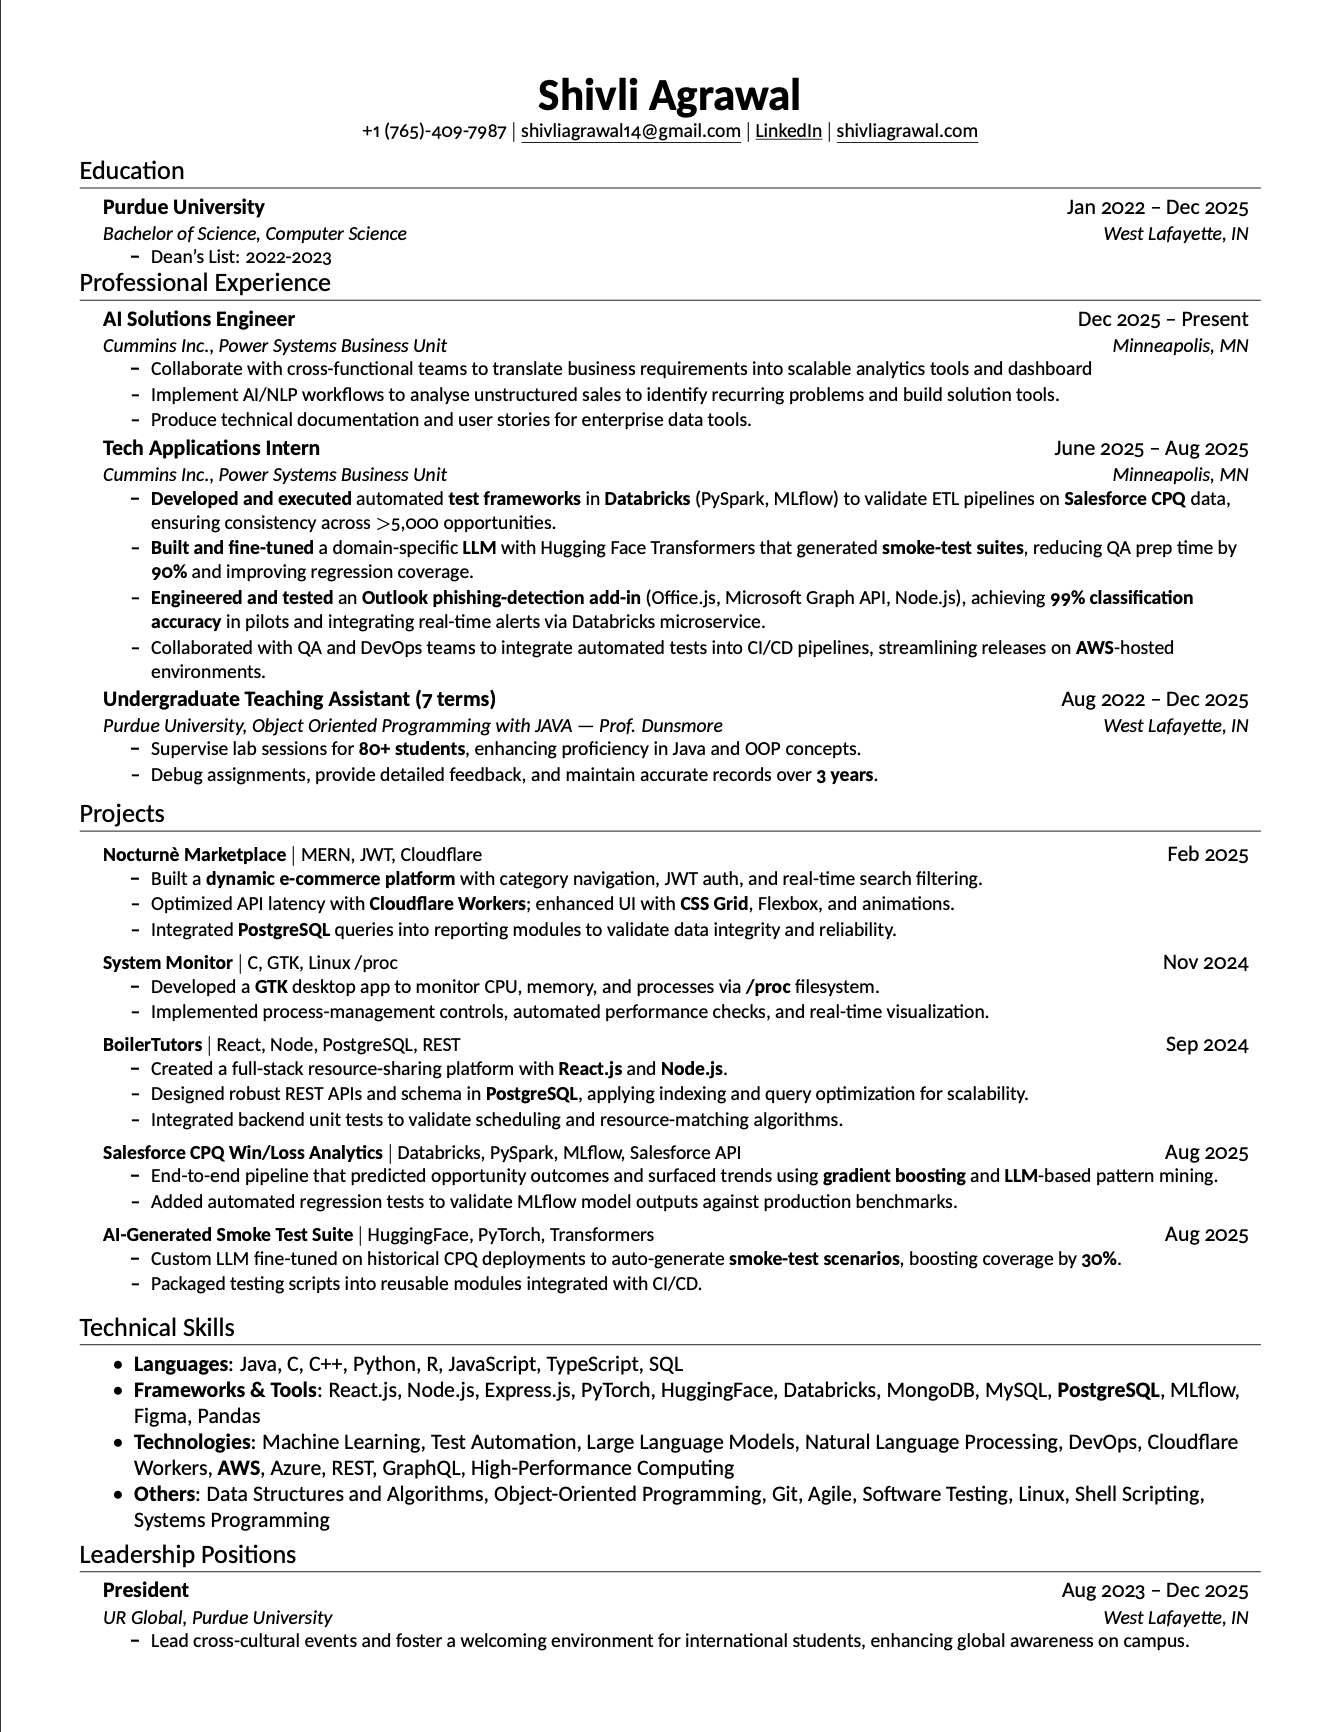
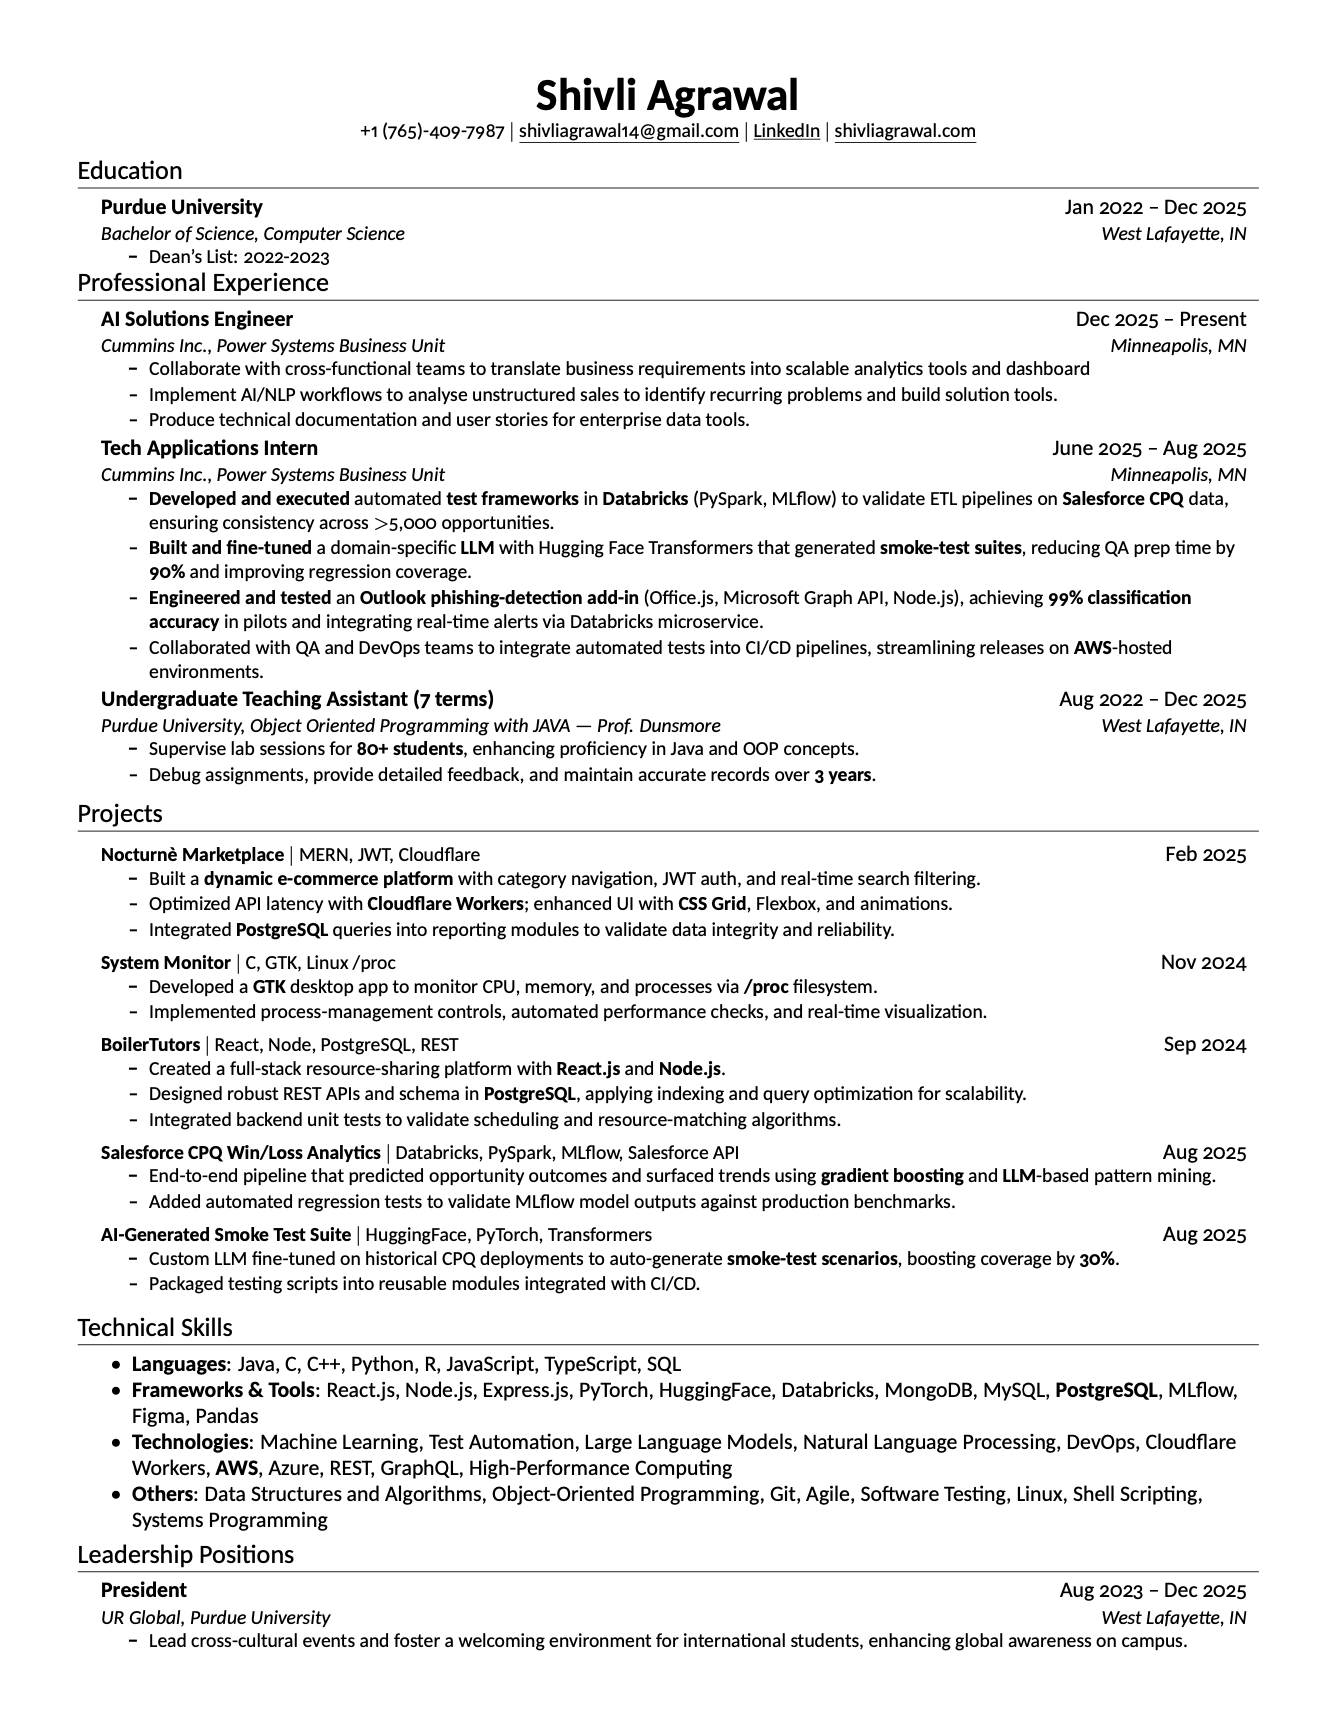
Fix resume download reliability and scope zoom to header/sidebar only
- Resume button was unreliable because it tried to both open a new tab
  (the anchor's own default href/target) and trigger a second
  programmatic download from the same click, which browsers like
  Safari can treat as a blocked secondary action. Flipped the
  approach: the anchor's native href+download now handles the PDF
  (the most reliable path), and a JS-triggered window.open() handles
  the image preview as the secondary action.
- Re-exported assets/resume.jpg from the latest Resume-work.png.
- Zoom scaling (1.05x / 1.13x) was applied to the whole body, making
  the main content area feel too large even though header/sidebar
  were the right size. Scoped it to just `header` and `.sidebar`
  instead, leaving the main calendar content at native 1.0x.

diff --git a/index.html b/index.html
@@ -76,10 +76,10 @@
     min-height: 100%;
   }
   @media (min-width: 768px) {
-    body { zoom: 1.05; }
+    header, .sidebar { zoom: 1.05; }
   }
   @media (min-width: 1600px) {
-    body { zoom: 1.13; }
+    header, .sidebar { zoom: 1.13; }
   }
 
   a:focus-visible, button:focus-visible, input:focus-visible {
@@ -433,7 +433,7 @@
                       <p class="text-sm md:text-base leading-[1.7] max-w-2xl mb-7 font-semibold rounded-lg px-3 py-2 inline-block" style="color: var(--cat-contact); background: rgba(217, 107, 67, 0.12);">Currently looking at Forward Deployed Engineer, Technical PM, and Technical Solutions roles, where that combination is the job.</p>
                       <div class="flex flex-wrap gap-3">
                         <button class="btn-pop today-goto rounded-full px-6 py-3 text-sm font-bold" data-target="today-impact" style="background: var(--cat-contact); color: #fff;">View Selected Work</button>
-                        <a href="assets/resume.jpg" id="resume-btn" target="_blank" rel="noopener" class="btn-pop rounded-full px-6 py-3 text-sm font-bold border" style="border-color: var(--hairline); color: var(--ink);">Resume</a>
+                        <a href="assets/Shivli_Agrawal_Resume.pdf" download="Shivli_Agrawal_Resume.pdf" id="resume-btn" class="btn-pop rounded-full px-6 py-3 text-sm font-bold border" style="border-color: var(--hairline); color: var(--ink);">Resume</a>
                         <button class="btn-pop today-goto rounded-full px-6 py-3 text-sm font-bold border" data-target="today-contact" style="border-color: var(--hairline); color: var(--ink);">Let's Connect</button>
                       </div>
                     </div>
@@ -1340,16 +1340,11 @@
       if (nextBtn) stepCarousel(nextBtn.closest('.case-carousel'), 1);
     });
 
-    // ---- Resume button: display image + download PDF on one click ----
+    // ---- Resume button: download PDF (native href) + open image preview on one click ----
     const resumeBtn = document.getElementById('resume-btn');
     if (resumeBtn) {
       resumeBtn.addEventListener('click', () => {
-        const a = document.createElement('a');
-        a.href = 'assets/Shivli_Agrawal_Resume.pdf';
-        a.download = 'Shivli_Agrawal_Resume.pdf';
-        document.body.appendChild(a);
-        a.click();
-        a.remove();
+        window.open('assets/resume.jpg', '_blank', 'noopener');
       });
     }
 
